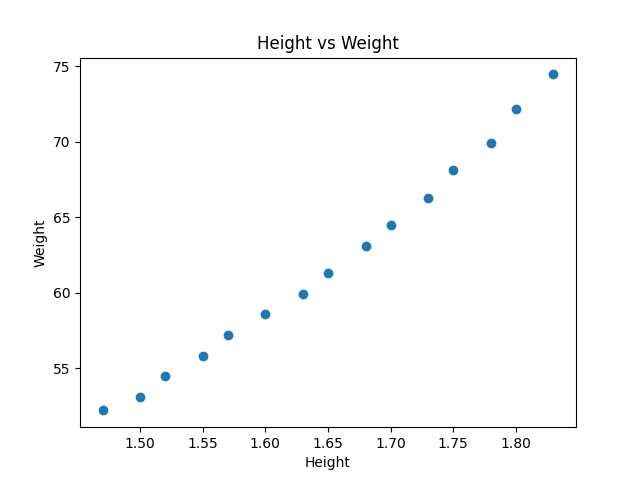
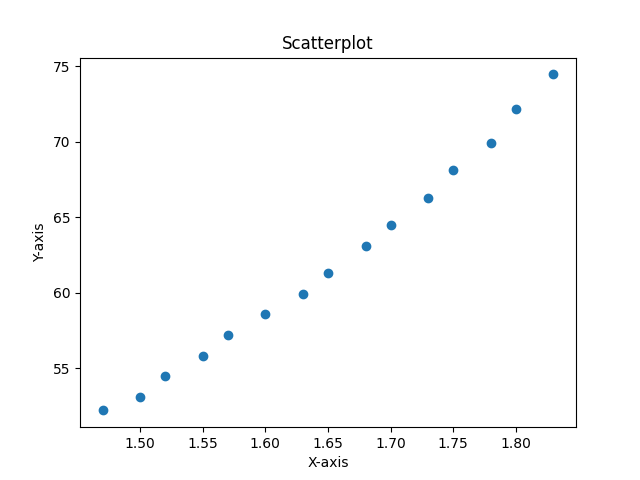
new changes

Changed region(s): [[0.4062, 0.0625, 0.625, 0.125], [0.0312, 0.4688, 0.0938, 0.5625], [0.4688, 0.9375, 0.5625, 1.0]]

diff --git a/runner.py b/runner.py
@@ -29,16 +29,25 @@ def main():
     df = read_csv_file(file)
     exploratory_data_response = exploratory_data_analysis(df)
     analysis_technique_response = analysis_technique(exploratory_data_response)
+    graph_labels = prompts.evaluate_graph_labels(analysis_technique_response)
+
+    print(graph_labels)
+
     if isinstance(exploratory_data_response, str):
         exploratory_data_response = json.loads(exploratory_data_response)
         print(exploratory_data_response)
     if isinstance(analysis_technique_response, str):
         analysis_technique_response = json.loads(analysis_technique_response)
+    if isinstance(graph_labels, str):
+       graph_labels = json.loads(graph_labels)
+
+       
+    graph_image = create_analysis(analysis_technique_response, graph_labels, df)
+
     formatted_exploratory_data = format_json_data_for_report(exploratory_data_response)
     formatted_analysis_technique = format_analysis_plan_for_report(analysis_technique_response)
-    graph_image = f"./report images/scatterplot.png"
     build_pdf_report(formatted_exploratory_data, formatted_analysis_technique, graph_image)
-    # create_analysis(analysis_technique_response, df)
+    
 
 
 # Load in data or read data
@@ -59,7 +68,7 @@ def exploratory_data_analysis(df):
     api_schema_description = "The data we are looking at is on production debugging. The rows in the data frame denote a different api phase. Id is an identifier of each api phase. Execution time is of data type int and is how much time the api phase took to complete."
     data_schema_description = "The data we are looking at simple height and weight of different people. They are both int values. Height is the height of the person in inches and weight is the weight of the person in pounds."
     wine_schema_description = "The data we are looking at is on red wine. The rows in the data frame denote a different wine. The columns are the different attributes of the wine. The data is a mix of int and float values."
-    exploratory_data_response = prompts.evaluate_exploratory_data_analysis(data_info_result, data_describe_result, data_head_result, data_nunique_result, data_null_result, wine_schema_description, verbose=True)
+    exploratory_data_response = prompts.evaluate_exploratory_data_analysis(data_info_result, data_describe_result, data_head_result, data_nunique_result, data_null_result, data_schema_description, verbose=True)
     return exploratory_data_response
   
 
@@ -74,12 +83,16 @@ def analysis_technique(exploratory_data_response):
  
     return analysis_technique_response
 
-def create_analysis(analysis_technique_response, df):
+
+
+def create_analysis(analysis_technique_response, graph_labels, df):
     try:
         validated_data = AnalysisTechniqueResponse(**analysis_technique_response)
     except ValidationError as e:
         print(f"Validation Error: {e}")
         return
+    
+    graph_labels = graph_labels
 
     index = validated_data.function_to_call
     input_params = validated_data.input_parameters  
@@ -100,8 +113,9 @@ def create_analysis(analysis_technique_response, df):
         if index == 1:
             x_column = input_params['x']
             y_column = input_params['y']
-            handler(x=df[x_column], y=df[y_column])
-        elif index == 7:  #
+            graph_image = handler(graph_labels, x=df[x_column], y=df[y_column])
+            return graph_image
+        elif index == 7:  
             handler(df)
         else:
             handler(df, **input_params)

diff --git a/prompts.py b/prompts.py
@@ -51,3 +51,23 @@ def evaluate_analysis_technique(data_input, verbose=False):
         print(completion)
 
     return completion
+
+
+
+
+def evaluate_graph_labels(data_input, verbose=False):
+    system = "You are a data science analyst. Your speciality is in formatting graphs with proper labels. \n\nYour boss will provide you with summaries in JSON format from an analysis technique analysis. This will include the analysis technique chosen. Function to call and input parameters.\n\nYour job is to create appropriate labels for the graph including axis labels, graph title, and a legend if necessary. \n\nThe graph title should be a clear representation of what the graph depicts without actually including the type of graph. \n\nThe functions are as follows:\n1: functions.create_scatterplot,\n2: functions.create_sub_scatterplots,\n3: functions.create_sub_scatterplots_unique,\n4: functions.create_histogram,\n5: functions.create_histograms,\n6: functions.create_boxplot,\n7: functions.create_heatmap\n\n\n\n{\n  \"graph_labels\": {\n    \"axis_labels\": {\n      \"x_axis\": \"X-axis Label\",\n      \"y_axis\": \"Y-axis Label\"\n    },\n    \"graph_title\": \"Title of the Graph\",\n    \"legend\": {\n      \"display\": true,\n      \"labels\": [\n        {\n          \"label\": \"Dataset 1\",\n          \"color\": \"blue\",\n          \"shape\": \"circle\"\n        },\n        {\n          \"label\": \"Dataset 2\",\n          \"color\": \"red\",\n          \"shape\": \"square\"\n        }\n      ],\n      \"position\": \"top-right\"\n    }\n  }\n}\n"
+    
+    user = f"{data_input}"
+    # Convert the system and user strings to a Messages object
+    messages = util.convert_to_messages(system, user)
+    # Get the parameters to call the OpenAI API
+    params = util.get_chat_completion_params("gpt-4", messages, temperature=0.4)
+    # Actually call the OpenAI ChatCompletion API, get the completion message
+    completion = util.create_chat_completion(params)
+
+    if verbose:
+        print(completion)
+
+    return completion
+    

diff --git a/functions.py b/functions.py
@@ -153,11 +153,17 @@ def check_data_types(df):
 
 
 # Creates a scatterplot
-def create_scatterplot(x,y):
+def create_scatterplot(graph_labels, x, y):
     plt.scatter(x,y)
-    plt.title('Height vs Weight')
-    plt.xlabel('Height')
-    plt.ylabel('Weight')
+    plt.title(graph_labels.get("graph_title", "Scatterplot"))
+    plt.xlabel(graph_labels.get("axis_labels", {}).get("x_axis", "X-axis"))
+    plt.ylabel(graph_labels.get("axis_labels", {}).get("y_axis", "Y-axis"))
+    print(graph_labels)
+    
+    # Handle legend if specified
+    if graph_labels.get("legend", {}).get("display", False):
+        legend_labels = [label_info.get("label") for label_info in graph_labels["legend"]["labels"]]
+        plt.legend(legend_labels, loc=graph_labels["legend"].get("position", "best"))
     
     
     folder_path = 'report images'  
@@ -167,14 +173,10 @@ def create_scatterplot(x,y):
     if not os.path.exists(folder_path):
         os.makedirs(folder_path)
     
-    # Combine the folder path and filename to get the full path
     file_path = os.path.join(folder_path, filename)
-    
-    # Save the figure to the specified path
     plt.savefig(file_path)
-    
-    # Close the plot to free memory
     plt.close()
+    return file_path
 
 # Creates multiple scatter plots for columns 
 def create_sub_scatterplots(df, columns):
